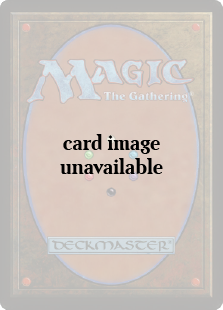
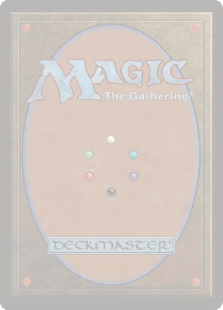
new cardRender display and missing image placeholder text

Changed region(s): [[0.2691, 0.4355, 0.7265, 0.5806], [0.2691, 0.4065, 0.4574, 0.4935]]

diff --git a/resources/js/tolarian.js b/resources/js/tolarian.js
@@ -148,7 +148,7 @@ TolarianLibrary.advancedSearch = function() {
   //console.log(searchEntries);
   var parameters = $.param(searchEntries);
   //console.log(parameters);
-  var searchUrl = magicAPI + '?' + parameters;
+  var searchUrl = magicAPI + 'cards?' + parameters;
 
   TolarianLibrary.ajaxRequest(searchUrl);
 }
@@ -212,13 +212,23 @@ TolarianLibrary.renderCards = function(cards) {
     var set = cards[index].setName;
     var artist = cards[index].artist;
 
-    //for v03
-    /* var cardResult =
-    '<div class="card-result">                                                   ' +
-    '  <img id="card-image" src="' + imageUrl + '" alt="' + name + ' card" />    ' +
-    '</div>                                                                        '; */
+    if (imageUrl === './resources/images/card-unavailable.png') {
+      var cardResult =
+      '<div class="card-result">                                               ' +
+      '  <img id="card-image" src="' + imageUrl + '" alt="' + name + ' card" />' +
+      '  <div class="placeholder">                                             ' +
+      '    <p>' + name + '</p>                                                 ' +
+      '    <p>' + set + '</p>                                              ' +
+      '  </div>                                                                ' +
+      '</div>                                                                  ';
+    } else {
+      var cardResult =
+      '<div class="card-result">                                               ' +
+      '  <img id="card-image" src="' + imageUrl + '" alt="' + name + ' card" />' +
+      '</div>                                                                  ';
+    }
 
-    var cardResult =
+    /* var cardResult =
 
     '<div class="result">' +
     '  <img src="' + imageUrl + '" alt="' + name + ' card" />    ' +
@@ -260,7 +270,7 @@ TolarianLibrary.renderCards = function(cards) {
     ' <div id="rulings" class="rulings">                         ' +
     '   ' + TolarianLibrary.renderRulings(cards, index) + '      ' +
     '  </div>                                                    ' +
-    '</div>                                                      ';
+    '</div>                                                      '; */
 
     $cardList.append(cardResult);
 

diff --git a/resources/css/styles.css b/resources/css/styles.css
@@ -494,7 +494,7 @@ body.loading .modal {
   width: 100%;
   padding: 3rem 0;
   display: flex;
-  justify-content: center;
+  justify-content: flex-start;
   flex-wrap: wrap;
   max-width: 60rem;
   margin: 0 auto;
@@ -629,13 +629,40 @@ body.loading .modal {
 
 /* search result v03 styles */
 
-/* .card-result {
-  display: flex;
-  justify-content: center;
+.card-result {
+  position: relative;
+  text-align: center;
 }
+
+.placeholder {
+  position: absolute;
+  top: 50%;
+  left: 50%;
+  transform: translate(-50%, -50%);
+  width: 75%;
+}
+
+.card-result p:first-child {
+  font-size: 1.15rem;
+  line-height: 1.15;
+  font-family: "Beleren-Bold", sans-serif;
+}
+
+.card-result p:last-child {
+  font-family: "Roboto", sans-serif;
+  font-size: 0.85rem;
+  padding-top: 0.3rem;
+}
+
 #card-image {
   margin: 0.5rem;
   width: 223px;
   height: 310px;
   align-self: center;
-} */
+}
+
+@media only screen and (max-width: 62.5rem) {
+  .results-rows {
+    justify-content: center;
+  }
+}
